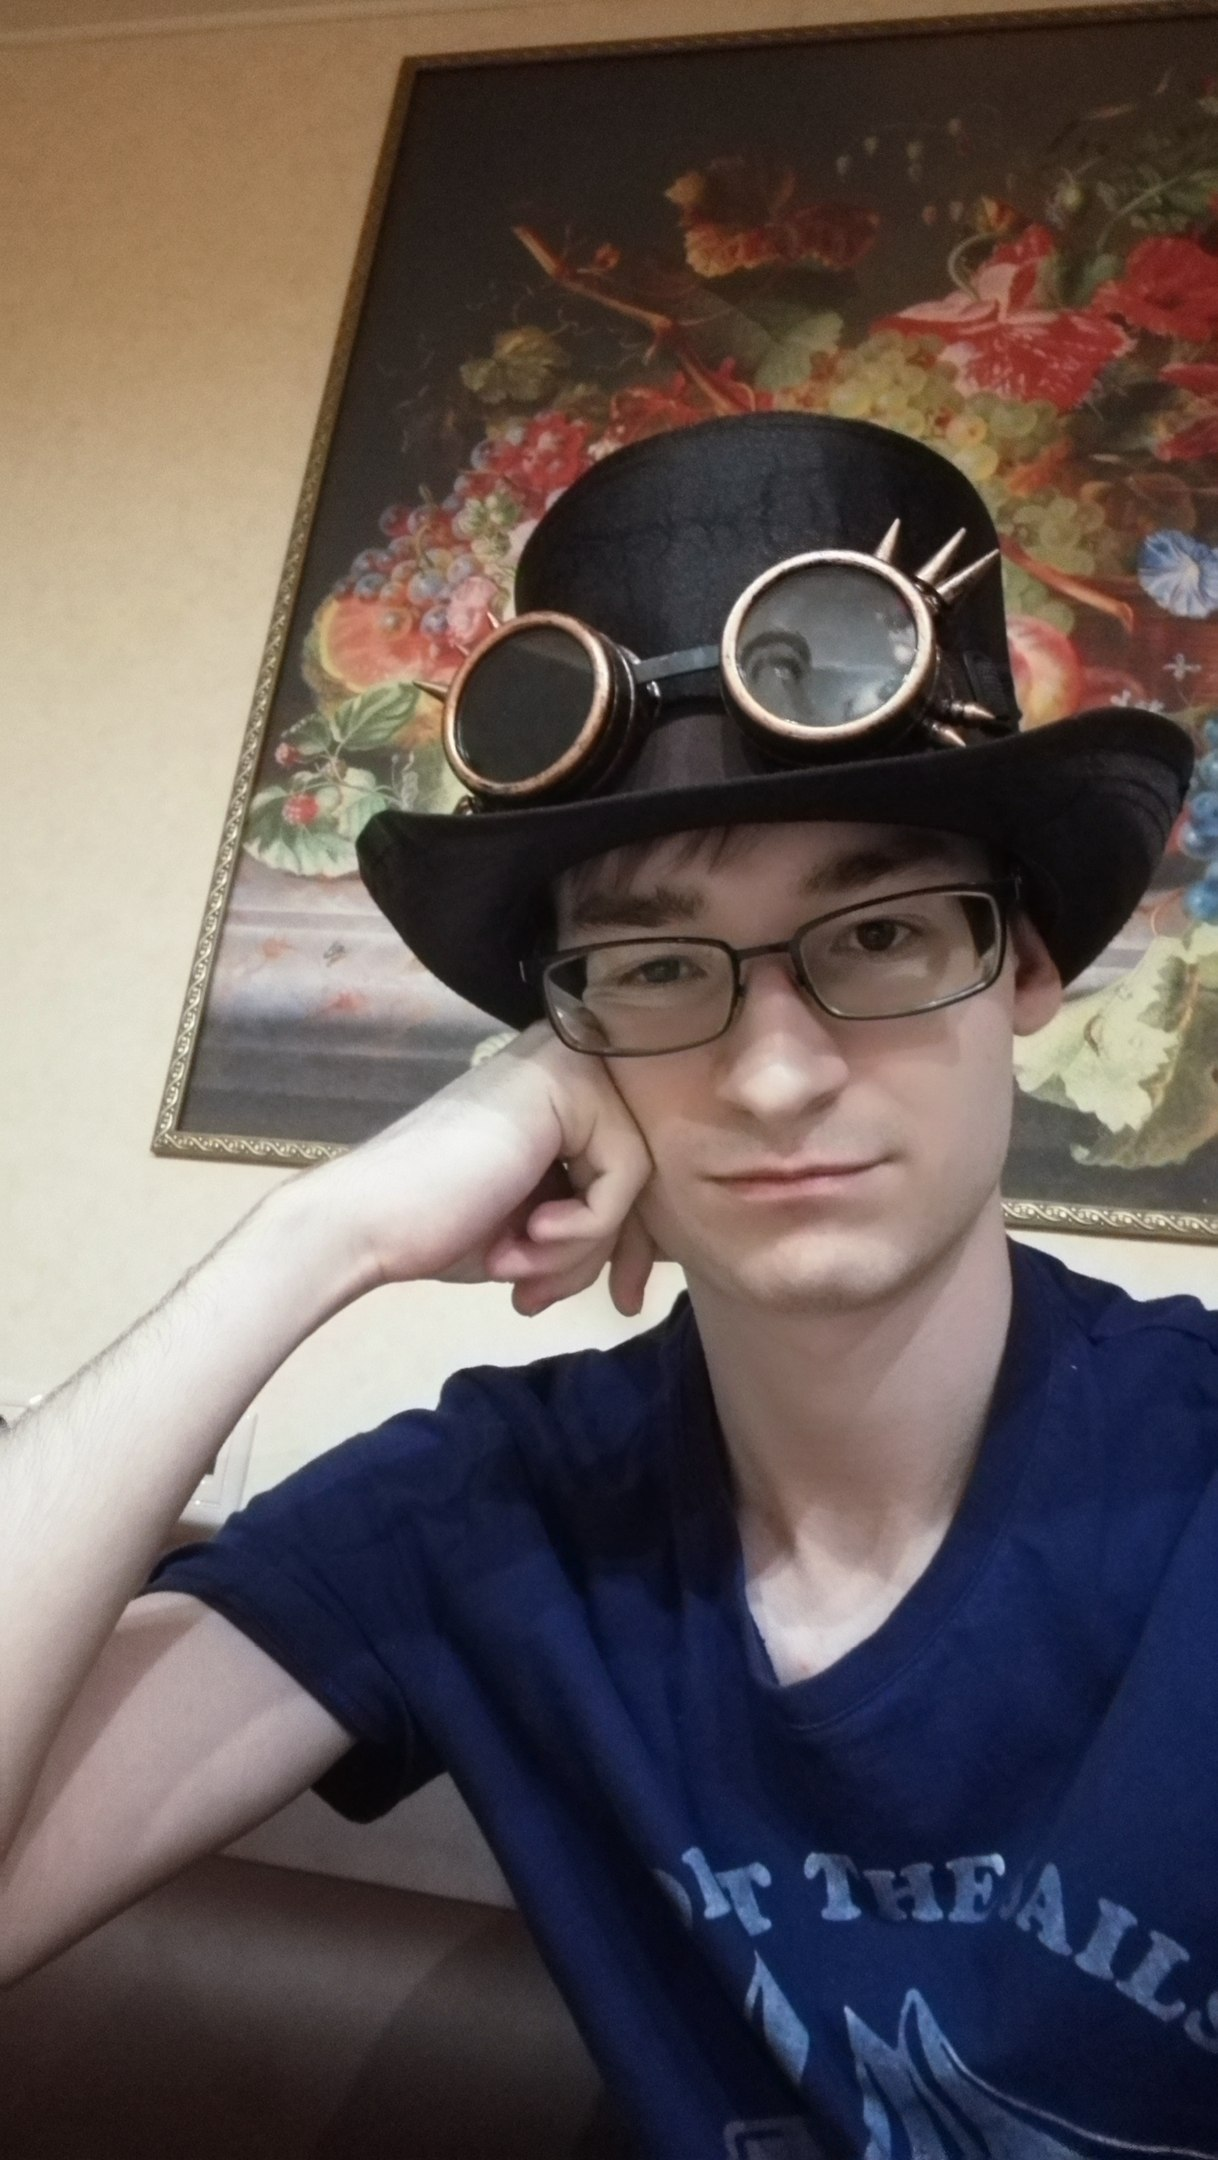
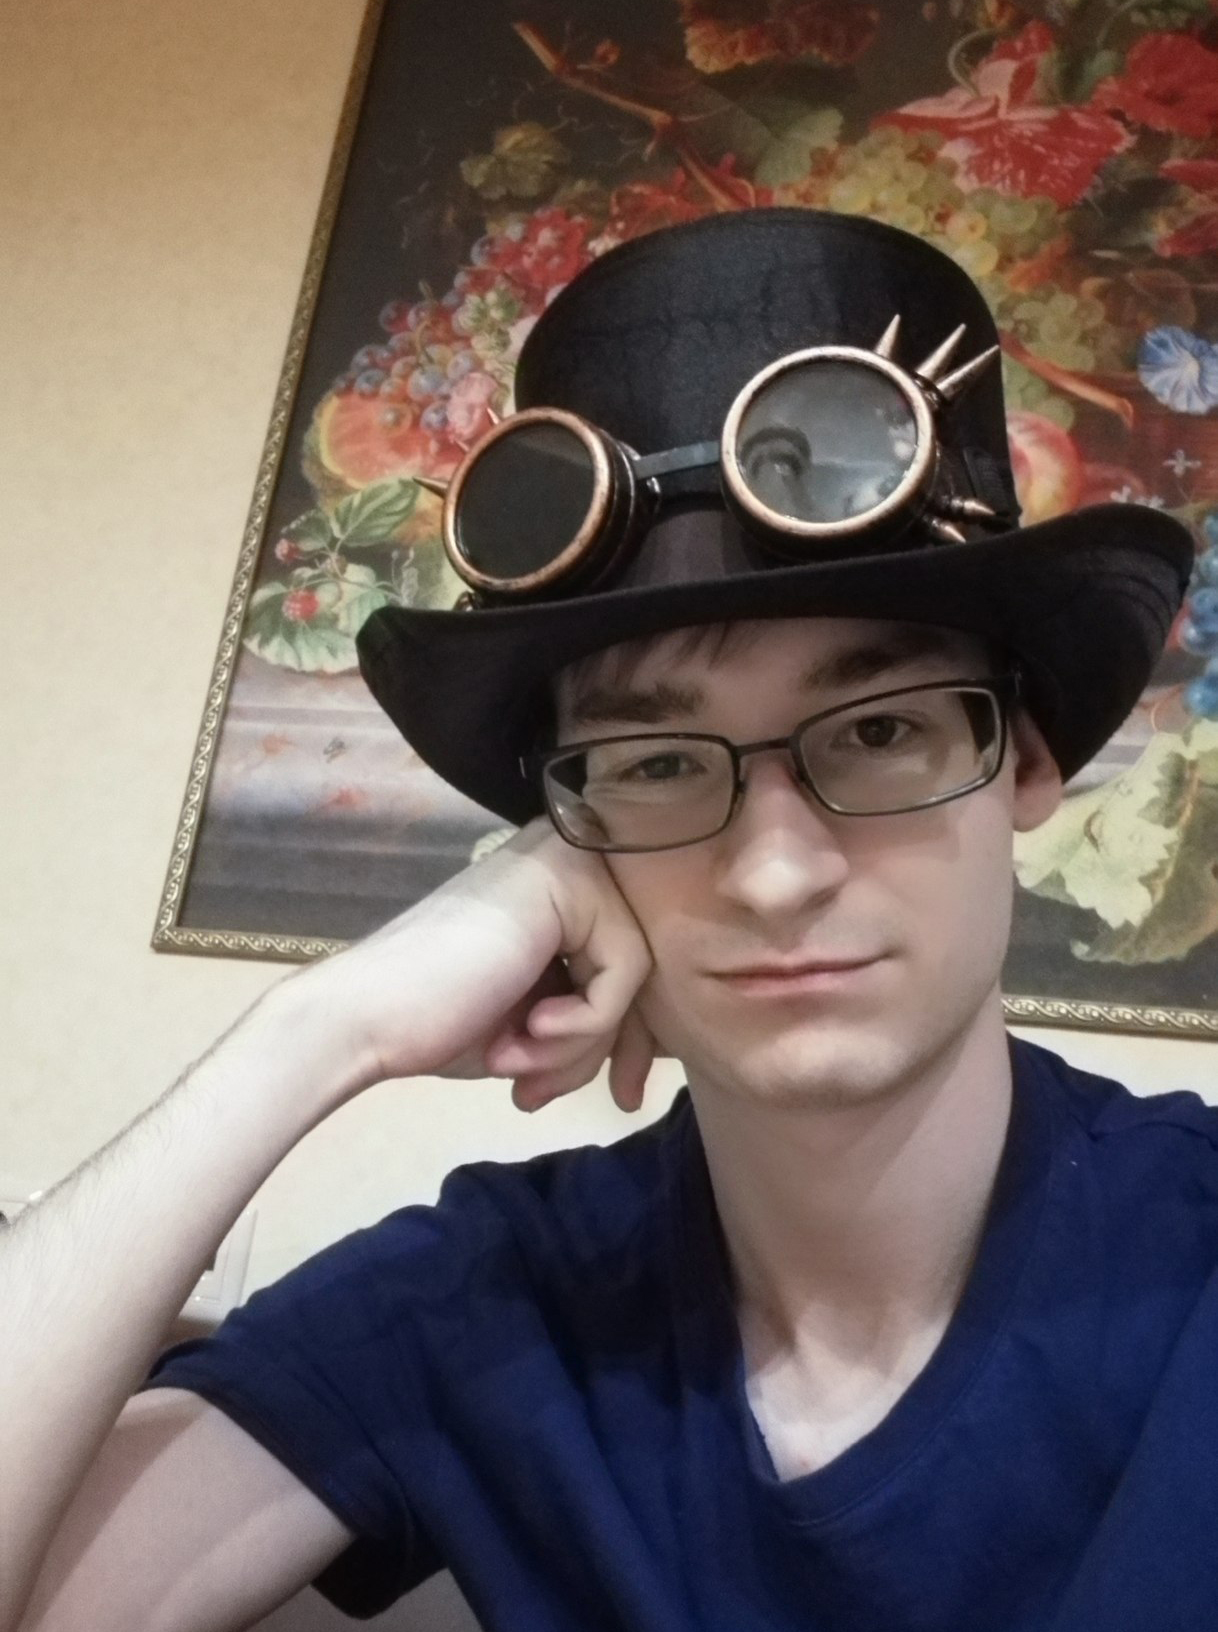
Ещё коммит

diff --git a/practice1/task1.html b/practice1/task1.html
@@ -11,10 +11,11 @@
 <body>
     <header><a href="../index.html"><img src="back.ico" alt="Вернуться в список практик" width="2%"
                 title="Вернуться в список практик"></a>
-        <h1 align="center"><mark>Практическое задание №1</mark></h1>
+        <h1 align="center">Практическое задание №1</h1>
     </header>
     <hr>
-
+    <h2 align="center"><u>Анкета о себе</u></h2>
+    <img src="foto.jpg" alt="Тут было моё фото" width="20%" title="Мистер в шляпе">
     <hr>
     <p>Фотоальбом домашней кошки Алисы:</p>
     <img src="myau.jpg" alt="Тут была кошка, но она ушла..." width="20%" title="Внимательно смотрит">
